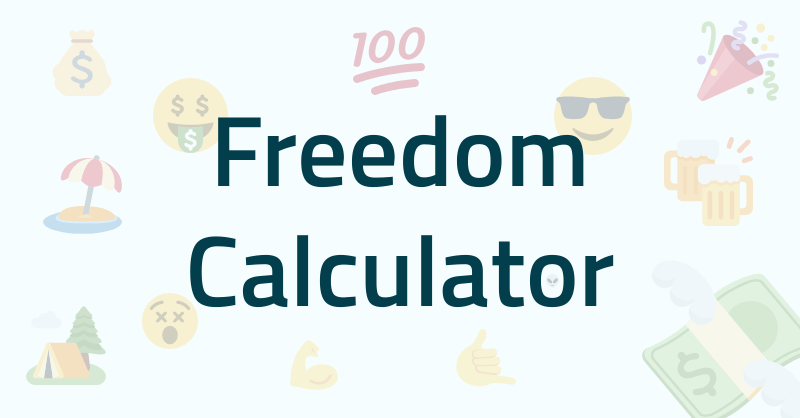
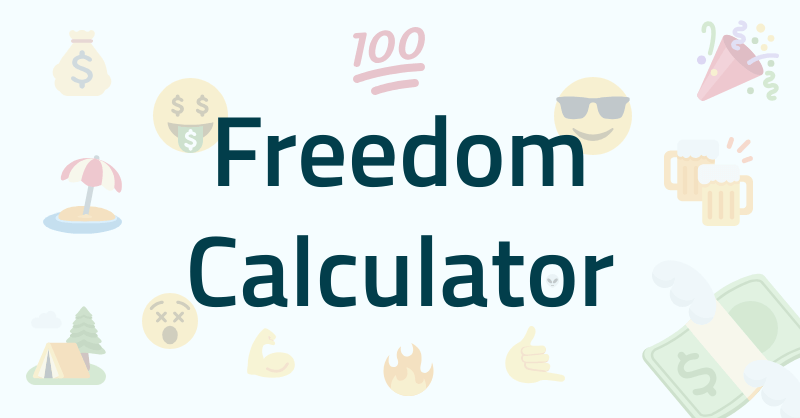
Update freedom levels

Changed region(s): [[0.4688, 0.7775, 0.7188, 0.9641], [0.3125, 0.7775, 0.4375, 0.933]]

diff --git a/src/components/AppCalculator.vue b/src/components/AppCalculator.vue
@@ -67,9 +67,9 @@
 import { after, debounce, getLocationQueryParameters } from '@noeldemartin/utils';
 import { computed, onMounted, ref, watchEffect } from 'vue';
 
-import { freedom } from '@/lib/freedom';
+import { DAY_TIME } from '@/lib/time';
+import { updateFreedom } from '@/lib/freedom';
 
-const MONTH_TIME = 30 * 24 * 60 * 60 * 1000;
 const EXPENSES_RATES = ['month', 'week', 'day'];
 const EXPENSES_RATES_DAYS: Partial<Record<string, number>> = {
     month: 30,
@@ -91,7 +91,7 @@ const deadline = computed(() => {
         return;
     }
 
-    const date = new Date(new Date().getTime() + 24 * 60 * 60 * 1000 * daysLeft);
+    const date = new Date(Date.now() + DAY_TIME * daysLeft);
 
     return isNaN(date.getTime()) ? null : date;
 });
@@ -131,17 +131,7 @@ watchEffect(() => {
         return;
     }
 
-    const runway = (deadline.value?.getTime() ?? Infinity) - Date.now();
-
-    if (runway < MONTH_TIME) {
-        freedom.value = 'broke';
-    } else if (runway < MONTH_TIME * 12) {
-        freedom.value = 'free';
-    } else if (runway < MONTH_TIME * 12 * 100) {
-        freedom.value = 'rich';
-    } else {
-        freedom.value = 'millionaire';
-    }
+    updateFreedom((deadline.value?.getTime() ?? Infinity) - Date.now());
 });
 
 onMounted(async () => {

diff --git a/src/lib/freedom.ts b/src/lib/freedom.ts
@@ -1,4 +1,26 @@
 import { ref } from 'vue';
 
-export type Freedom = 'broke' | 'free' | 'rich' | 'millionaire';
+import { FIRE_TIME, MILLIONAIRE_TIME, MONTH_TIME } from '@/lib/time';
+
+function calculateFreedom(runway: number): Freedom {
+    if (runway < MONTH_TIME) {
+        return 'broke';
+    }
+
+    if (runway < FIRE_TIME) {
+        return 'free';
+    }
+
+    if (runway < MILLIONAIRE_TIME) {
+        return 'fire';
+    }
+
+    return 'millionaire';
+}
+
+export type Freedom = 'broke' | 'free' | 'fire' | 'millionaire';
 export const freedom = ref<Freedom>();
+
+export function updateFreedom(runway: number): void {
+    freedom.value = calculateFreedom(runway);
+}

diff --git a/src/lib/index.ts b/src/lib/index.ts
@@ -3,13 +3,13 @@ import type { Component } from 'vue';
 
 import * as BROKE_ICONS from './icons-broke';
 import * as FREE_ICONS from './icons-free';
-import * as RICH_ICONS from './icons-rich';
+import * as FIRE_ICONS from './icons-fire';
 import * as MILLIONAIRE_ICONS from './icons-millionaire';
 import type { Freedom } from './freedom';
 
 export const ICONS: Record<Freedom, Component[]> = {
     broke: Object.values(BROKE_ICONS).map(markRaw),
     free: Object.values(FREE_ICONS).map(markRaw),
-    rich: Object.values(RICH_ICONS).map(markRaw),
+    fire: Object.values(FIRE_ICONS).map(markRaw),
     millionaire: Object.values(MILLIONAIRE_ICONS).map(markRaw),
 };

diff --git a/src/lib/time.ts b/src/lib/time.ts
@@ -1,0 +1,11 @@
+export const DAY_TIME = 24 * 60 * 60 * 1000;
+export const MONTH_TIME = 30 * DAY_TIME;
+export const YEAR_TIME = 12 * MONTH_TIME;
+export const MILLIONAIRE_TIME = 100 * YEAR_TIME;
+
+// FIRE refers to Financial Independence Retire Early. It is considered that you've reached
+// FI when you can sustain a 4% withdrawal rate for your yearly expenses; which roughly
+// translates to having savings for 26 years of expenses.
+//
+// See https://en.wikipedia.org/wiki/FIRE_movement
+export const FIRE_TIME = 26 * YEAR_TIME;

diff --git a/src/lib/icons-fire.ts b/src/lib/icons-fire.ts
@@ -1,3 +1,4 @@
+export { default as IconFire } from '~icons/twemoji/fire';
 export { default as IconFlexedBiceps } from '~icons/twemoji/flexed-biceps';
 export { default as IconHundredPoints } from '~icons/twemoji/hundred-points';
 export { default as IconMoneyBag } from '~icons/twemoji/money-bag';
